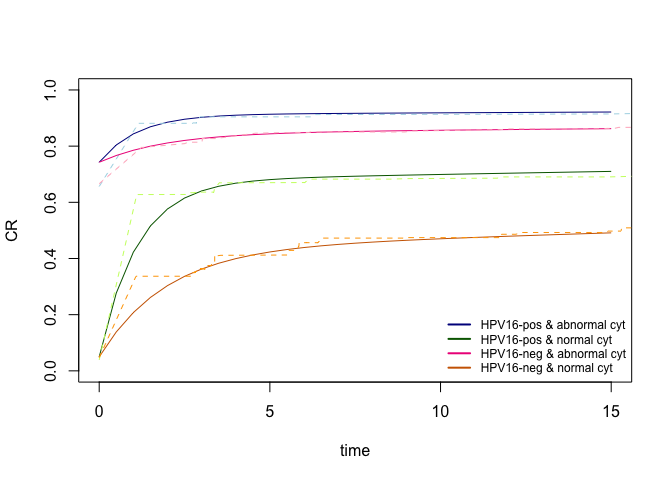
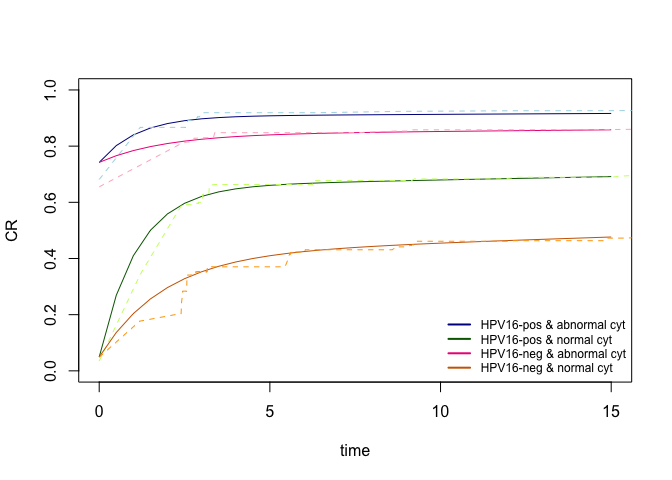
updated readme

diff --git a/README.md b/README.md
@@ -6,7 +6,7 @@
 <!-- badges: start -->
 <!-- badges: end -->
 
-This `R` package fits prevalence-incidence-cure (PIC) models to
+This `R` package fits prevalence-incidence-clearance (PIC) models to
 interval-censored data to estimate the cumulative disease risk in a
 population with a temporarily elevated risk of disease, e.g., risk of
 CIN2+ in HPV-positive women.
@@ -54,23 +54,23 @@ library(PICmodel)
 sim.thetas <- c(-5, -1.6, -1.2, 0.25)
 sim.dat <- PICmodel.simulator(3000, c(), c(), c(), sim.thetas, show_prob = 0.9, interval=3, include.h=T)
 head(sim.dat) # view simulated data
-#>       left    right z      age     age.std hpv cyt cause     actual
-#> 1 24.01999      Inf 0 30.85232 -0.82851442   0   1     3  84.454383
-#> 2  0.00000 0.000000 1 40.38176 -0.41218222   0   0     1   0.000000
-#> 3 24.39051      Inf 0 50.08066  0.01155381   1   1     3 244.513618
-#> 4  0.00000 3.023474 0 66.60333  0.73341401   0   0     3   1.271537
-#> 5 24.46140      Inf 0 42.73744 -0.30926460   1   0     3  74.034462
-#> 6  0.00000 2.882023 0 32.38987 -0.76134047   0   1     2   2.590831
+#>       left    right z      age     age.std hpv cyt cause      actual
+#> 1  0.00000 3.226851 0 57.27269  0.31340019   0   0     2   3.1306638
+#> 2  0.00000 2.842028 0 39.78472 -0.44154034   0   0     3   0.7869288
+#> 3 23.99044      Inf 0 34.77966 -0.65760407   0   1     3 120.4722254
+#> 4  0.00000 0.000000 1 35.18409 -0.64014544   1   1     1   0.0000000
+#> 5  0.00000 0.000000 1 65.30408  0.66010830   1   1     1   0.0000000
+#> 6 23.78351      Inf 0 51.66828  0.07146271   0   1     3 419.1538667
 
 sim.fit <- PICmodel.fit(c(), c(), c(), sim.dat) # fit model to simulated data
 sim.fit$summary # view model fit summary
 #>        param theta.hat std.dev   lower   upper
-#> h          h   -5.0747  0.0985 -5.2678 -4.8817
-#> g0 intercept   -1.5582  0.0543 -1.6646 -1.4517
-#> w0 intercept   -1.1330  0.0611 -1.2527 -1.0132
-#> p0 intercept    0.2418  0.0081  0.2259  0.2576
+#> h          h   -4.9887  0.1352 -5.2537 -4.7237
+#> g0 intercept   -1.6438  0.0795 -1.7996 -1.4880
+#> w0 intercept   -1.1678  0.0971 -1.3582 -0.9775
+#> p0 intercept    0.2699  0.0378  0.1958  0.3440
 
-sim.predict <- PICmodel.predict(c(), c(), c(), data=sim.dat[1,], time.points = seq(0, 15, 0.5), fit=sim.fit)
+sim.predict <- PICmodel.predict(data=sim.dat[1,], time.points = seq(0, 15, 0.5), fit=sim.fit)
 
 library(survival) # compare model fit to non-parametric Kaplan-Meier curve 
 sim.km.fit <- survfit(Surv(sim.dat$left, sim.dat$right, type='interval2')~1)
@@ -92,25 +92,25 @@ as a covariate for prevalence then we would d the following:
 sim.thetas.cov <- c(-5, -1.6, 1, -1.2, -3, 4)
 sim.dat2 <- PICmodel.simulator(5000, c("hpv"), c(), c("cyt"), sim.thetas.cov, show_prob = 0.9, interval=3, include.h=T)
 head(sim.dat2) # view simulated data
-#>       left    right z      age     age.std hpv cyt cause      actual
-#> 1 20.84013      Inf 0 67.80002  0.77756521   0   0     3 180.1536740
-#> 2  0.00000 3.079331 0 50.70354  0.04217698   0   0     2   0.5028079
-#> 3  0.00000 3.030328 0 35.87145 -0.59581093   1   0     2   1.6694930
-#> 4  0.00000 3.758633 0 48.66340 -0.04557788   1   1     2   2.1876578
-#> 5  0.00000 0.000000 1 39.34947 -0.44620729   0   1     1   0.0000000
-#> 6 23.66946      Inf 0 31.86447 -0.76816762   0   0     3 122.6678531
+#>       left     right  z      age    age.std hpv cyt cause     actual
+#> 1  0.00000  0.000000  1 36.70354 -0.5784233   0   1     1   0.000000
+#> 2  0.00000  0.000000  1 45.52838 -0.1962039   0   1     1   0.000000
+#> 3  5.67436 14.462502  0 37.58090 -0.5404234   0   0     2   6.709169
+#> 4 24.15850       Inf  0 41.04901 -0.3902133   0   0     3 161.917679
+#> 5  0.00000  2.889064 NA 41.80223 -0.3575899   1   1     1   0.000000
+#> 6  0.00000  6.317093 NA 32.75525 -0.7494305   0   0     2   3.713812
 
 sim.fit2 <- PICmodel.fit(c("hpv"), c(), c("cyt"), sim.dat2) # fit model to simulated data
 sim.fit2$summary # view model fit summary
 #>        param theta.hat std.dev   lower   upper
-#> h          h   -4.9134  0.0804 -5.0709 -4.7558
-#> g0 intercept   -1.5929  0.0487 -1.6884 -1.4975
-#> g1       hpv    1.0558  0.0680  0.9225  1.1891
-#> w0 intercept   -1.1973  0.0506 -1.2964 -1.0981
-#> p0 intercept   -2.9454  0.0887 -3.1193 -2.7716
-#> p1       cyt    4.0054  0.1030  3.8035  4.2073
+#> h          h   -4.8837  0.0768 -5.0342 -4.7331
+#> g0 intercept   -1.6066  0.0515 -1.7075 -1.5056
+#> g1       hpv    1.0359  0.0678  0.9030  1.1688
+#> w0 intercept   -1.1310  0.0525 -1.2339 -1.0281
+#> p0 intercept   -2.9591  0.0882 -3.1319 -2.7862
+#> p1       cyt    4.0170  0.1028  3.8155  4.2185
 
-sim.predict2 <- PICmodel.predict(c("hpv"), c(), c("cyt"), data=data.frame(hpv = c(1, 1, 0, 0), cyt=c(1, 0, 1, 0)), 
+sim.predict2 <- PICmodel.predict(data=data.frame(hpv = c(1, 1, 0, 0), cyt=c(1, 0, 1, 0)), 
                               time.points = seq(0, 15, 0.5), fit=sim.fit2)
 
 # compare model fit to non-parametric Kaplan-Meier curve 
@@ -141,12 +141,6 @@ legend("bottomright",
 
 <img src="man/figures/README-example3-1.png" width="50%" />
 
-## Upcoming
-
-- update model predict functions to allow for model fits where the
-  general intercept was not estimated.
-- update Gamma simulator functions to allow for covariates
-
 ## Authors
 
-- **Kelsi Kroon** <k.kroon@amsterdamumc.nl>
+- **Kelsi R. Kroon** <k.kroon@amsterdamumc.nl>
